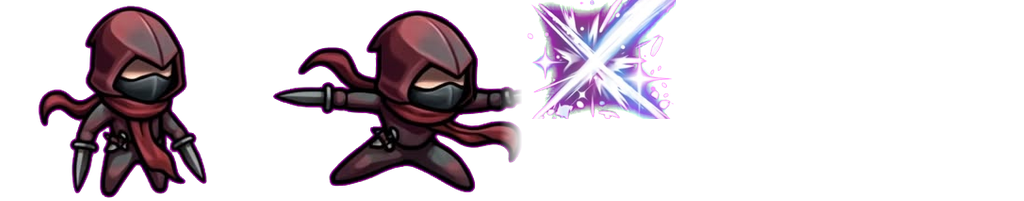
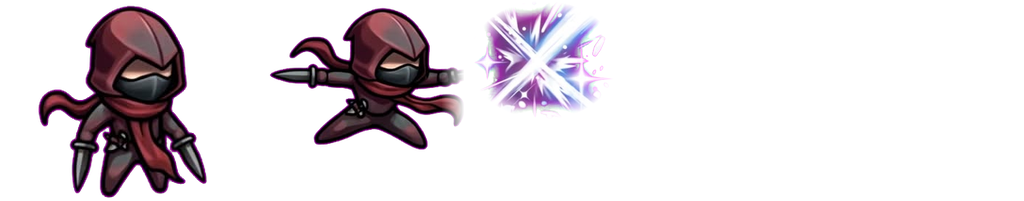
Efectos con sprites para asesino, arquero y orco; asesino con recorte y tamaño corregidos
- empaquetar_efectos.py: recorta hojas de efectos (cuadricula irregular, fondo rosa) y genera fx.js por heroe
- empaquetar_heroes.py: cuadricula real (grid), escala de la pose de ataque (atks) y destello radial
- sprites.js/index.html: efectos por secuencia (seq) y habilidades del asesino, arquero y orco con sprites
- hojas de efectos en assets/habilidades y efectos

Changed region(s): [[0.25, 0.0, 0.6875, 0.9552]]

diff --git a/index.html b/index.html
@@ -368,6 +368,8 @@ body.solo #soloItemsFold{margin:6px 0}
 <script src="assets/heroes/archer/pack.js"></script>
 <script src="assets/heroes/assassin/pack.js"></script>
 <script src="assets/heroes/assassin/fx.js"></script>
+<script src="assets/heroes/archer/fx.js"></script>
+<script src="assets/heroes/barbarian/fx.js"></script>
 <script src="assets/heroes/demon/pack.js"></script>
 <script src="assets/heroes/paladin/pack.js"></script>
 <script src="assets/heroes/druid/pack.js"></script>
@@ -882,6 +884,7 @@ function addDot(e,type,dps,dur,stack){
 function hitEnemy(p,e){
   SRC=p.src||p.type;
   {const bs=SPR.on?SPR.basicOf(p.src):null;if(bs&&bs.hit&&G.fx.length<300)G.fx.push({k:'spr',id:bs.hit,x:e.x,y:e.y,w:(bs.hw||36)*(p.crit?1.25:1),d:.3,t:.3,fi:0,fo:.6,g0:.5,g1:1.1})}
+  if(p.frost&&G.hero==='archer'&&arSpr())fxSeq('a_fri',4,{x:e.x,y:e.y,w:p.crit?84:64,d:.4,fi:0,fo:.3});
   if(p.arrow&&!p.skelArrow&&G.hero==='assassin'&&asSpr())sprFx({seq:asSeq('x_dagh',3),x:e.x,y:e.y-e.r*.3,w:p.crit?64:46,d:.3,fi:0,fo:.2});
   if(p.flask&&SPR.on&&G.fx.length<300)G.fx.push({k:'spr',id:'al_splash',x:e.x,y:e.y+4,w:40,d:.4,t:.4,fi:0,fo:.6,g0:.5,g1:1.1});
   if(p.src==='Rayo arcano de la torre'&&SPR.on&&G.fx.length<300)G.fx.push({k:'spr',id:'t_impact',x:e.x,y:e.y,w:30,d:.25,t:.25,fi:0,fo:.7,g0:.5,g1:1.2,add:true});
@@ -1856,7 +1859,7 @@ function shot(t,dmg,b,h){
     if(ha){const dd=Math.hypot(t.x-cx(),t.y-cy()),k=1+Math.min(.9,.4+.01*ha)*Math.min(1,dd/(heroShot()*.9));p.dmg*=k;p.exp*=k}
     if(hl){const fh=tf('d_head');if(Math.random()<Math.min(.4,.08+.01*hl+fh.pc)){const k=(1.6+.02*hl)*fh.dm;p.dmg*=k;p.exp*=k;p.crit=true;p.critT='🎯 ¡TIRO A LA CABEZA!';p.size*=1.5;p.stunC=1;p.stunT=(.8+.02*hl)*fh.dur;const tt=t,a=Math.atan2(t.y-cy(),t.x-cx());G.delayed.push({t:.08,fn:()=>{if(!tt.dead&&!tt.boss&&!(tt.root>0)){tt.x+=Math.cos(a)*50;tt.y+=Math.sin(a)*50}}})}}
   }
-  if(h==='archer'){const fl=clv('a_frost');if(fl){const ff=tf('a_frost');p.slow=Math.max(p.slow||0,Math.min(.65,.2+.008*fl+(ff.slow?ff.slow[0]:0)));p.stunC=Math.max(p.stunC||0,Math.min(.35,.04+.004*fl+ff.pc));p.stunT=Math.max(p.stunT||0,1+.02*fl);p.col='#9fe3ff'}}
+  if(h==='archer'){const fl=clv('a_frost');if(fl){const ff=tf('a_frost');p.slow=Math.max(p.slow||0,Math.min(.65,.2+.008*fl+(ff.slow?ff.slow[0]:0)));p.stunC=Math.max(p.stunC||0,Math.min(.35,.04+.004*fl+ff.pc));p.stunT=Math.max(p.stunT||0,1+.02*fl);p.col='#9fe3ff';p.frost=true}}
   if(h==='paladin'){
     if(G.ht.wrathOn>0){const wm=1.3*tf('pl_wrath').dm;p.dmg*=wm;p.exp*=wm}
     const cl=clv('pl_cleave'),fcl=tf('pl_cleave');if(cl){p.splash=(40+2*cl)*fcl.rad;if(fcl.dm!==1){p.dmg*=fcl.dm;p.exp*=fcl.dm}if(fcl.slow)p.slow=fcl.slow[0]}
@@ -1974,7 +1977,7 @@ function fireBasic(){
     if(!tg.length){G.basicCd=0;return}
     G.aim=Math.atan2(tg[0].y-cy(),tg[0].x-cx());G.punchAt=G.t;G.atkN=(G.atkN||0)+1;
     for(const t of tg)shot(t,dmg,b,h);
-    {const ml=SPR.on?SPR.meleeOf(h):null;if(ml&&G.fx.length<290)for(const t of tg)G.fx.push({k:'spr',id:ml.hit,x:t.x,y:t.y,w:ml.w,d:.3,t:.3,fi:0,fo:.6,g0:.5,g1:1.1})}
+    {const ml=SPR.on?SPR.meleeOf(h):null;if(ml&&G.fx.length<290)for(const t of tg){if(h==='assassin'&&asSpr())sprFx({seq:asSeq('x_stab',4),x:t.x,y:t.y-t.r*.3,w:64,d:.28,fi:0,fo:.2});else G.fx.push({k:'spr',id:ml.hit,x:t.x,y:t.y,w:ml.w,d:.3,t:.3,fi:0,fo:.6,g0:.5,g1:1.1})}}
     G.basicCd=rate/(S.atk*(G.haste>0?1.5:1));
     return;
   }
@@ -2173,7 +2176,7 @@ function updateHero(dt){
           if(!e.dead){e.stun=(.8+.03*l)*fsh.dur;if(dd>60){e.x-=dx/dd*Math.min(90,dd-50);e.y-=dy/dd*Math.min(90,dd-50)}}
         }
         T.callOn=(6+.15*l)*fsh.dur;G.haste=Math.max(G.haste,5+.15*l+(fsh.haste||0));
-        G.fx.push({k:'ring',x:x0,y:y0,r:R,t:.35,c:'#ff7a5a'});
+        if(bbSpr())fxSeq('b_shout',3,{x:x0,y:y0,w:Math.min(R*1.1,340),d:.6,fi:0,fo:.4,a:.85});else G.fx.push({k:'ring',x:x0,y:y0,r:R,t:.35,c:'#ff7a5a'});
         txt(x0,y0-70,'📢 ¡LLAMADA DE BATALLA!','#ff7a5a',18);
         done('b_shout',Math.max(10,20-.4*l));
       }
@@ -4402,9 +4405,10 @@ function heroTick3(h,dt,T,x0,y0,rdy,done,retry){
       if(!cs.length)retry('a_snipe');
       else{SRC='Disparo potente';const d=hdmg(l)*5,L=rg('a_snipe')+40;
         for(const t of cs){const a=Math.atan2(t.y-y0,t.x-x0);
-          lineHit(a,L,14,e=>{dealDamage(e,e===t?d:d*.6,'phys');ring(e.x,e.y,e.r+8,'#ffd24a',.25)});
-          G.fx.push({k:'bolt',pts:[[x0,y0-10],[x0+Math.cos(a)*L,y0-10+Math.sin(a)*L]],t:.35,c:'#ffe9a8'});
-          G.fx.push({k:'bolt',pts:[[x0,y0-10],[x0+Math.cos(a)*L,y0-10+Math.sin(a)*L]],t:.25,c:'#ffffff'});
+          lineHit(a,L,14,e=>{dealDamage(e,e===t?d:d*.6,'phys');if(arSpr())fxSeq('a_sni',4,{x:e.x,y:e.y,w:e===t?110:70,d:.4,fi:0,fo:.25,add:true});else ring(e.x,e.y,e.r+8,'#ffd24a',.25)});
+          if(arSpr()){fxSeq('a_snc',2,{x:x0+Math.cos(a)*22,y:y0-10+Math.sin(a)*22,w:46,d:.2,fi:0,fo:.2,add:true});fxSeq('a_snb',3,{x:x0,y:y0-10,to:[x0+Math.cos(a)*L,y0-10+Math.sin(a)*L],h:44,d:.4,fi:0,fo:.3,add:true})}
+          else{G.fx.push({k:'bolt',pts:[[x0,y0-10],[x0+Math.cos(a)*L,y0-10+Math.sin(a)*L]],t:.35,c:'#ffe9a8'});
+          G.fx.push({k:'bolt',pts:[[x0,y0-10],[x0+Math.cos(a)*L,y0-10+Math.sin(a)*L]],t:.25,c:'#ffffff'})}
           txt(t.x,t.y-t.r-14,'🎯','#ffd24a',20)}
         txt(x0,y0-70,'🎯 ¡Disparo potente!','#ffd24a',16);done('a_snipe',Math.max(7,14-.35*l))}
     }
@@ -4441,17 +4445,17 @@ function heroTick3(h,dt,T,x0,y0,rdy,done,retry){
       f=tf('b_exec');const cs=inR(rg('b_exec')).sort((a,b)=>a.hp/a.max-b.hp/b.max).slice(0,2+Math.floor(l/6)+f.cnt);
       if(!cs.length)retry('b_exec');
       else{SRC='Decapitador';const d=hdmg(l)*3.2;
-        for(const e of cs){const low=e.hp<e.max*.3&&!e.boss;dealDamage(e,low?e.hp*1.5+10:d,'phys');bolt(e,'#ff4040');ring(e.x,e.y,e.r+14,'#ff4040',.35);txt(e.x,e.y-e.r-14,low?'☠':'⚔','#ff4040',22)}
+        for(const e of cs){const low=e.hp<e.max*.3&&!e.boss;dealDamage(e,low?e.hp*1.5+10:d,'phys');if(bbSpr())fxSeq('b_exec',6,{x:e.x,y:e.y-e.r*.4,w:100,d:.5,fi:0,fo:.25});else{bolt(e,'#ff4040');ring(e.x,e.y,e.r+14,'#ff4040',.35)}txt(e.x,e.y-e.r-14,low?'☠':'⚔','#ff4040',22)}
         txt(x0,y0-70,'☠ ¡Decapitador!','#ff6a5a',16);done('b_exec',Math.max(7,13-.3*l))}
     }
     if((l=clv('b_berserk'))&&rdy('b_berserk')){
       f=tf('b_berserk');
       if(countNear(x0,y0,300)<4)retry('b_berserk');
-      else{T.bersOn=(8+.3*l)*f.dur;ring(x0,y0,130,'#ff3a2a',.6);ring(x0,y0,80,'#ffb0a0',.5);txt(x0,y0-90,'🤬 ¡BERSERKER!','#ff3a2a',22);done('b_berserk',Math.max(40,70-1.5*l))}
+      else{T.bersOn=(8+.3*l)*f.dur;if(!bbSpr()){ring(x0,y0,130,'#ff3a2a',.6);ring(x0,y0,80,'#ffb0a0',.5)}txt(x0,y0-90,'🤬 ¡BERSERKER!','#ff3a2a',22);done('b_berserk',Math.max(40,70-1.5*l))}
     }
     if(T.bersOn>0&&(l=clv('b_berserk'))){
       f=tf('b_berserk');G.hp=Math.min(S.maxHp,G.hp+S.maxHp*.02*dt*f.hm);
-      if(G.fx.length<300&&Math.random()<dt*16)G.fx.push({k:'p',x:x0+(Math.random()-.5)*34,y:y0+(Math.random()-.5)*34,vx:0,vy:-60,t:.5,c:'#ff3a2acc'})}
+      if(!bbSpr()&&G.fx.length<300&&Math.random()<dt*16)G.fx.push({k:'p',x:x0+(Math.random()-.5)*34,y:y0+(Math.random()-.5)*34,vx:0,vy:-60,t:.5,c:'#ff3a2acc'})}
   }
   if(h==='demon'){
     if((l=clv('z_void'))&&rdy('z_void')){
@@ -4714,11 +4718,11 @@ function drawClassFx(x0,y0){
     const R=(110+4*clv('z_immo'))*tf('z_immo').rad;
     ctx.beginPath();ctx.arc(x0,y0,R,0,6.3);ctx.fillStyle='rgba(125,255,106,'+(.07+.03*Math.sin(G.t*5))+')';ctx.fill();ctx.strokeStyle='rgba(125,255,106,.55)';ctx.lineWidth=1.5;ctx.stroke();ctx.lineWidth=1;
   }
-  if(h==='barbarian'&&(G.rage||0)>2){ctx.beginPath();ctx.arc(x0,y0,36+Math.min(12,G.rage),0,6.3);ctx.fillStyle='rgba(224,60,40,'+Math.min(.28,G.rage*.02)+')';ctx.fill()}
-  if(h==='barbarian'&&G.ht&&G.ht.bersOn>0){ctx.beginPath();ctx.arc(x0,y0,44+3*Math.sin(G.t*14),0,6.3);ctx.fillStyle='rgba(255,40,30,.22)';ctx.fill();ctx.strokeStyle='rgba(255,90,60,.7)';ctx.lineWidth=2;ctx.stroke();ctx.lineWidth=1}
+  if(h==='barbarian'&&(G.rage||0)>2&&!bbSpr()){ctx.beginPath();ctx.arc(x0,y0,36+Math.min(12,G.rage),0,6.3);ctx.fillStyle='rgba(224,60,40,'+Math.min(.28,G.rage*.02)+')';ctx.fill()}
+  if(h==='barbarian'&&G.ht&&G.ht.bersOn>0&&!bbSpr()){ctx.beginPath();ctx.arc(x0,y0,44+3*Math.sin(G.t*14),0,6.3);ctx.fillStyle='rgba(255,40,30,.22)';ctx.fill();ctx.strokeStyle='rgba(255,90,60,.7)';ctx.lineWidth=2;ctx.stroke();ctx.lineWidth=1}
   if(h==='demon'&&G.ht&&G.ht.bladeOn>0){const n=G.ht.bladeN||3;ctx.beginPath();ctx.arc(x0,y0,170,0,6.3);ctx.fillStyle='rgba(125,255,106,.07)';ctx.fill();
     for(let i=0;i<n;i++){const a=G.t*7+i*6.283/n,rr=120+30*Math.sin(G.t*3+i);drawGlaive({x:x0+Math.cos(a)*rr,y:y0+Math.sin(a)*rr,vx:Math.cos(a+1.57),vy:Math.sin(a+1.57)})}}
-  if(h==='barbarian'&&G.ht&&G.ht.whirlOn>0){
+  if(h==='barbarian'&&G.ht&&G.ht.whirlOn>0&&!bbSpr()){
     const R=(140+4*clv('b_whirl'))*tf('b_whirl').rad;
     ctx.beginPath();ctx.arc(x0,y0,R,0,6.3);ctx.fillStyle='rgba(217,80,58,.10)';ctx.fill();
     for(let i=0;i<4;i++){const a=G.t*9+i*1.571;drawAxe({x:x0+Math.cos(a)*R*.8,y:y0+Math.sin(a)*R*.8,rot:G.t*18+i,size:13})}
@@ -5361,6 +5365,12 @@ function draw(){
   drawAllies();drawCyclopes();
   // proyectiles
   for(const p of G.projs){
+    if(arSpr()&&G.hero==='archer'&&p.arrow&&!p.skelArrow){   /* flechas especiales del arquero con sprite */
+      const an=p.kind==='orb'?Math.atan2(p.vy,p.vx):(p.ang||0),fr=1+Math.floor(performance.now()/90)%2;
+      if(p.src==='Flecha perforante'){if(SPR.draw(ctx,'a_prc_'+fr,p.x,p.y,{w:p.crit?66:54,ax:.8,rot:an}))continue}
+      else if(p.frost){if(SPR.draw(ctx,'a_frp_'+fr,p.x,p.y,{w:p.crit?50:40,ax:.8,rot:an}))continue}
+      else if(G.ht&&G.ht.focusOn>0){if(SPR.draw(ctx,'a_str_'+fr,p.x,p.y,{w:p.crit?66:52,ax:.85,rot:an,add:true}))continue}
+    }
     if(SPR.on){const bs=SPR.basicOf(p.src);if(bs){const ang=(p.kind==='orb'||p.kind==='boom')?Math.atan2(p.vy,p.vx):(p.ang||0);if(SPR.draw(ctx,bs.proj,p.x,p.y,{w:bs.w*(p.crit?1.25:1),ax:bs.ax,rot:bs.spin?G.t*bs.spin:ang}))continue}}
     if(p.primalWave){drawPrimalRock(ctx,p.x,p.y,8,G.t*3);continue}
     if(p.flask){if(!(SPR.on&&SPR.draw(ctx,'al_proj',p.x,p.y,{w:24,rot:G.t*7})))drawAlchemistFlask(ctx,p.x,p.y,p.size||6,G.t*7);continue}
@@ -6821,7 +6831,7 @@ function tick5(h,dt,T,x0,y0,rdy,done,retry){
         G.punchAt=G.t;G.aim=Math.atan2(cs[0].y-y0,cs[0].x-x0);
         for(const e of cs){
           SRC='Hambre de sangre';const d=hdmg(l)*3;dealDamage(e,d,'phys');
-          E.push({k:'chain',e,t:0,life:.55,draw:drawChain});
+          if(bbSpr())fxSeq('b_claw',5,{x:e.x,y:e.y-e.r*.3,w:110,d:.55,fi:0,fo:.3});else E.push({k:'chain',e,t:0,life:.55,draw:drawChain});
           if(e.dead){G.hp=Math.min(S.maxHp,G.hp+S.maxHp*(.06+.002*l));G.haste=Math.max(G.haste,3+.1*l);ring5(e.x,e.y,e.r+16,'#ff3a3a',.4)}
           else addDot(e,'phys',d*.4,4,false);
         }
@@ -6835,7 +6845,7 @@ function tick5(h,dt,T,x0,y0,rdy,done,retry){
         if(a.chT<=0&&countNear(a.x,a.y,95)>0){
           a.chT=Math.max(3,6-.1*l)*f.cd;SRC='Jabalí embestidor';const d=hdmg(l)*(1.1+.015*l)*f.dm;
           for(const e of G.enemies){if(e.dead||Math.hypot(e.x-a.x,e.y-a.y)>95+e.r)continue;dealDamage(e,d,'phys');if(!e.dead&&!e.boss)e.stun=Math.max(e.stun||0,1)}
-          ring5(a.x,a.y,95,'#c9946a',.35)
+          if(bbSpr())fxSeq('b_dust',3,{x:a.x,y:a.y,w:110,ax:.5,ay:.6,d:.5,fi:0,fo:.4});else ring5(a.x,a.y,95,'#c9946a',.35)
         }
       }
       if(have<want){T.boarT=(T.boarT??1)-dt;
@@ -6844,7 +6854,7 @@ function tick5(h,dt,T,x0,y0,rdy,done,retry){
     if((l=clv('b_aspd'))&&G.allies.length){
       f=tf('b_aspd');const R=(260+5*l)*f.rad,kd=1+(.12+.01*l)*f.dm,ks=1+(.08+.006*l)*f.atk;
       for(const a of G.allies)if(Math.hypot(a.x-x0,a.y-y0)<=R){a.roarT=.3;a.roarK=kd;a.roarS=ks}
-      T.roarFx=(T.roarFx??0)-dt;if(T.roarFx<=0){T.roarFx=2.5;ring5(x0,y0,R*.7,'#ff9a3a',.5)}
+      T.roarFx=(T.roarFx??0)-dt;if(T.roarFx<=0){T.roarFx=2.5;if(bbSpr())fxSeq('b_roar',4,{x:x0,y:y0+6,w:Math.min(R*.9,300),d:.8,fi:0,fo:.4,a:.6});else ring5(x0,y0,R*.7,'#ff9a3a',.5)}
     }
   }
   if(h==='demon'&&(l=clv('z_step'))&&rdy('z_step')){
@@ -7256,7 +7266,9 @@ HR.assassin={
 const asFoes=(x,y,R)=>G.enemies.filter(e=>!e.dead&&Math.hypot(e.x-x,e.y-y)<=R+e.r);
 const asSpr=()=>SPR.on&&SPR.has('x_stab_1');   /* efectos del asesino con sprites (assets/heroes/assassin/fx.js); si no, se dibujan por código */
 const asSeq=(p,n)=>Array.from({length:n},(_,i)=>p+'_'+(i+1));
-const asRing=(x,y,r,t,col)=>{if(!asSpr())G.fx.push({k:'ring',x,y,r,t,c:col})};
+const arSpr=()=>SPR.on&&SPR.has('a_gust_1'),bbSpr=()=>SPR.on&&SPR.has('b_fire_1');   /* efectos del arquero y del orco con sprites */
+const fxSeq=(p,n,o)=>sprFx(Object.assign({seq:asSeq(p,n)},o)),fxLoop=(p,n,fps,o)=>sprFx(Object.assign({anim:asSeq(p,n),fps},o));
+const asRing=(x,y,r,t,col)=>{if(!(G.hero==='assassin'&&asSpr()))G.fx.push({k:'ring',x,y,r,t,c:col})};
 function asTp(x,y){
   const m=HEROES.assassin.melee.leash+100;let dx=x-(W/2+(G.hoff||0)),dy=y-H/2;const d=Math.hypot(dx,dy);
   if(d>m){dx*=m/d;dy*=m/d}
@@ -7402,6 +7414,21 @@ drawFx3=function(x0,y0){
   if(T.traps)for(const m of T.traps){const p=.5+.5*Math.sin(G.t*5+m.x);c.save();c.translate(m.x,m.y);c.fillStyle='rgba(0,0,0,.3)';c.beginPath();c.ellipse(0,3,9,3,0,0,6.3);c.fill();c.fillStyle='#3d5a2a';c.beginPath();c.ellipse(0,0,8,4,0,0,6.3);c.fill();c.strokeStyle='rgba(130,224,78,'+(.4+.4*p)+')';c.lineWidth=1.4;c.beginPath();c.ellipse(0,0,11,5.5,0,0,6.3);c.stroke();c.restore()}
 };
 
+const _d3Ab=drawFx3;
+drawFx3=function(x0,y0){
+  _d3Ab(x0,y0);
+  const tt=performance.now()/1000,c=ctx,T=G.ht;if(!T)return;
+  if(G.hero==='archer'&&arSpr()){   /* auras del arquero con sprites */
+    if(clv('a_aura'))SPR.draw(c,'a_aura_'+(1+Math.floor(tt*6)%4),cx(),cy()+16,{w:96,ax:.5,ay:.5,a:.5,add:true});
+    if(T.focusOn>0)SPR.draw(c,'a_foc_'+(1+Math.floor(tt*12)%4),cx(),cy()-6,{w:120,ax:.5,ay:.5,a:.5,add:true});
+    if(T.windOn>0)SPR.draw(c,'a_wind_'+(1+Math.floor(tt*12)%4),cx(),cy()-8,{w:96,ax:.5,ay:.5,a:.7});
+  }
+  if(G.hero==='barbarian'&&bbSpr()){   /* auras del orco con sprites */
+    if(T.whirlOn>0){const R=(140+4*clv('b_whirl'))*tf('b_whirl').rad;SPR.draw(c,'b_whirl_'+(1+Math.floor(tt*14)%6),cx(),cy(),{w:Math.min(R*1.3,300),ax:.5,ay:.5,a:.85})}
+    if(T.bersOn>0)SPR.draw(c,'b_fire_'+(1+Math.floor(tt*12)%6),cx(),cy()-4,{w:120,ax:.5,ay:.6,a:.5});
+    else if((G.rage||0)>2&&clv('b_rage'))SPR.draw(c,'b_rage_'+(1+Math.floor(tt*10)%4),cx(),cy()-4,{w:88,ax:.5,ay:.6,a:Math.min(.55,.15+G.rage*.04)});
+  }
+};
 function teamAura(){const l=clv('a_aura');return l&&G.heroes&&G.heroes.includes('archer')?(.05+.004*l)*tf('a_aura').dm:0}
 defTiers('a_frost','Flechas de escarcha',[['Escarcha densa','+15% de ralentización.',{slow:[.15,2.5]}],['Congelación','+8% de prob. de congelar.',{pc:.08}],['Frío intenso','+15% de ralentización y +8% de prob. de congelar.',{slow:[.3,2.5],pc:.08}],['Invierno eterno','Ralentiza un 45% y +15% de prob. de congelar.',{slow:[.45,2.5],pc:.15}]]);
 defTiers('a_shackle','Grillete',[['Cadenas largas','+30% de duración.',{dur:1.3}],['Hierro frío','+50% de daño.',{dm:1.5}],['Doble grillete','Ata una pareja más.',{cnt:1}],['Prisión','+40% de daño, -20% de enfriamiento y +30% de duración.',{dm:1.4,cd:.8,dur:1.3}]]);
@@ -7413,8 +7440,8 @@ const _t3El=heroTick3;
 heroTick3=function(h,dt,T,x0,y0,rdy,done,retry){_t3El(h,dt,T,x0,y0,rdy,done,retry);if(h==='archer')elfTick(dt,T,x0,y0,rdy,done,retry)};
 function elfTick(dt,T,x0,y0,rdy,done,retry){
   let l,f;
-  if(T.windOn>0){T.windOn-=dt;G.haste=Math.max(G.haste||0,.2);if(Math.random()<dt*14)G.fx.push({k:'p',x:cx()+(Math.random()-.5)*20,y:cy()+(Math.random()-.5)*20,t:.4,c:'#bff5c0'});if(T.windOn<=0)T.windOn=0}
-  if(T.focusOn>0){T.focusOn-=dt;if(Math.random()<dt*10)asRing(cx(),cy(),50+Math.random()*40,.3,'#ffe27a');if(T.focusOn<=0)T.focusOn=0}
+  if(T.windOn>0){T.windOn-=dt;G.haste=Math.max(G.haste||0,.2);if(!arSpr()&&Math.random()<dt*14)G.fx.push({k:'p',x:cx()+(Math.random()-.5)*20,y:cy()+(Math.random()-.5)*20,t:.4,c:'#bff5c0'});if(T.windOn<=0)T.windOn=0}
+  if(T.focusOn>0){T.focusOn-=dt;if(!arSpr()&&Math.random()<dt*10)asRing(cx(),cy(),50+Math.random()*40,.3,'#ffe27a');if(T.focusOn<=0)T.focusOn=0}
   if((l=clv('a_shackle'))&&rdy('a_shackle')){
     f=tf('a_shackle');const es=asFoes(x0,y0,rg('a_shackle')).sort((a,b)=>b.max-a.max),used=new Set();let did=0;
     for(const c of es){
@@ -7422,15 +7449,16 @@ function elfTick(dt,T,x0,y0,rdy,done,retry){
       const o=es.find(q=>q!==c&&!used.has(q)&&Math.hypot(q.x-c.x,q.y-c.y)<=280);if(!o)continue;
       used.add(c);used.add(o);did++;SRC='Grillete';
       const du=(2+.06*l)*f.dur,d=hdmg(l)*(2+.05*l)*f.dm;
-      for(const e of [c,o]){dealDamage(e,d,'phys');if(!e.dead){e.stun=Math.max(e.stun||0,e.boss?du*.4:du);asRing(e.x,e.y,e.r+10,.4,'#cfd4de')}}
-      G.fx.push({k:'bolt',pts:[[x0,y0-10],[c.x,c.y]],t:.2,c:'#e8ecf5'});G.fx.push({k:'bolt',pts:[[c.x,c.y],[o.x,o.y]],t:.5,c:'#aab4c8'});
+      for(const e of [c,o]){dealDamage(e,d,'phys');if(!e.dead){e.stun=Math.max(e.stun||0,e.boss?du*.4:du);if(arSpr())fxLoop('a_ring',4,8,{x:e.x,y:e.y+e.r*.5,w:e.r*3+20,ax:.5,ay:.5,d:e.boss?du*.4:du,fi:.1,fo:.25});else asRing(e.x,e.y,e.r+10,.4,'#cfd4de')}}
+      if(arSpr()){fxSeq('a_chain',3,{x:x0,y:y0-10,to:[c.x,c.y],h:26,d:.35,fi:0,fo:.3});fxSeq('a_chain',3,{x:c.x,y:c.y,to:[o.x,o.y],h:30,d:.6,fi:0,fo:.3})}
+      else{G.fx.push({k:'bolt',pts:[[x0,y0-10],[c.x,c.y]],t:.2,c:'#e8ecf5'});G.fx.push({k:'bolt',pts:[[c.x,c.y],[o.x,o.y]],t:.5,c:'#aab4c8'})}
     }
     if(!did)retry('a_shackle');else{txt(x0,y0-60,'⛓ ¡Grillete!','#dfe6f5',17);done('a_shackle',Math.max(7,13-.3*l))}
   }
   if((l=clv('a_windrun'))&&rdy('a_windrun')){
     f=tf('a_windrun');
     if(countNear(x0,y0,260)<3)retry('a_windrun');
-    else{T.windOn=(2.5+.08*l)*f.dur;G.heroInv=Math.max(G.heroInv||0,T.windOn);G.haste=Math.max(G.haste||0,T.windOn);asRing(x0,y0,80,.4,'#bff5c0');txt(x0,y0-60,'🍃 ¡Carrera del viento!','#bff5c0',17);done('a_windrun',Math.max(14,24-.5*l))}
+    else{T.windOn=(2.5+.08*l)*f.dur;G.heroInv=Math.max(G.heroInv||0,T.windOn);G.haste=Math.max(G.haste||0,T.windOn);if(!arSpr())asRing(x0,y0,80,.4,'#bff5c0');txt(x0,y0-60,'🍃 ¡Carrera del viento!','#bff5c0',17);done('a_windrun',Math.max(14,24-.5*l))}
   }
   if((l=clv('a_gust'))&&rdy('a_gust')){
     f=tf('a_gust');const R=(200+3*l)*f.rad,es=asFoes(x0,y0,R);
@@ -7445,13 +7473,13 @@ function elfTick(dt,T,x0,y0,rdy,done,retry){
         if(e.rng&&!e.boss){e.stun=Math.max(e.stun||0,sil);txt(e.x,e.y-e.r-12,'🤐','#fff',14)}
         else e.slow={a:.35,t:sil};
       }
-      asRing(x0,y0,R,.4,'#d6f5ff');asRing(x0,y0,R*.6,.3,'#ffffff');txt(x0,y0-60,'🌬 ¡Ráfaga!','#d6f5ff',17);done('a_gust',Math.max(8,15-.35*l));
+      if(arSpr()){for(let k=0;k<6;k++)fxSeq('a_gust',4,{x:x0,y:y0-6,w:Math.min(R*.6,190),ax:.02,ay:.5,rot:k*1.047+.3,d:.5,fi:0,fo:.3,a:.85})}else{asRing(x0,y0,R,.4,'#d6f5ff');asRing(x0,y0,R*.6,.3,'#ffffff')}txt(x0,y0-60,'🌬 ¡Ráfaga!','#d6f5ff',17);done('a_gust',Math.max(8,15-.35*l));
     }
   }
   if((l=clv('a_focus'))&&rdy('a_focus')){
     f=tf('a_focus');
     if(countNear(x0,y0,heroShot())<4)retry('a_focus');
-    else{T.focusOn=(7+.25*l)*f.dur;asRing(x0,y0,110,.5,'#ffe27a');txt(x0,y0-70,'🏹 ¡FUEGO CONCENTRADO!','#ffe27a',20);done('a_focus',Math.max(40,80-1.5*l))}
+    else{T.focusOn=(7+.25*l)*f.dur;if(!arSpr())asRing(x0,y0,110,.5,'#ffe27a');txt(x0,y0-70,'🏹 ¡FUEGO CONCENTRADO!','#ffe27a',20);done('a_focus',Math.max(40,80-1.5*l))}
   }
 }
 

diff --git a/assets/heroes/assassin/fx.js b/assets/heroes/assassin/fx.js
@@ -1,2 +1,2 @@
 /* Generado por tools/empaquetar_efectos.py. No editar a mano. */
-SPR.addPack("assassin_fx",{"game":{"img":"assets/heroes/assassin/assassin-fx.png","w":1024,"h":1271,"s":{"x_slash_1":[0,202,200,196],"x_slash_2":[203,202,200,196],"x_slash_3":[406,202,200,196],"x_slash_4":[609,202,200,196],"x_slash_5":[812,202,200,196],"x_slash_6":[0,401,200,196],"x_trail_1":[609,798,260,146],"x_trail_2":[0,977,260,146],"x_trail_3":[263,977,260,146],"x_trapa_1":[244,1204,90,53],"x_trapa_2":[337,1204,90,53],"x_trapa_3":[430,1204,90,53],"x_trapb_1":[203,401,200,195],"x_trapb_2":[406,401,200,195],"x_trapb_3":[609,401,200,195],"x_trapb_4":[812,401,200,195],"x_trapb_5":[0,600,200,195],"x_vanish_1":[0,798,200,176],"x_vanish_2":[203,798,200,176],"x_vanish_3":[406,798,200,176],"x_stab_1":[203,600,200,187],"x_stab_2":[406,600,200,187],"x_stab_3":[609,600,200,187],"x_stab_4":[812,600,200,187],"x_dag_1":[652,1126,63,64],"x_dag_2":[718,1126,63,64],"x_dag_3":[784,1126,63,64],"x_dag_4":[850,1126,63,64],"x_dagh_1":[526,977,110,110],"x_dagh_2":[639,977,110,110],"x_dagh_3":[752,977,110,110],"x_smoke_1":[0,0,200,199],"x_smoke_2":[203,0,200,199],"x_smoke_3":[406,0,200,199],"x_smoke_4":[609,0,200,199],"x_smoke_5":[812,0,200,199],"x_stealth_1":[0,1126,160,75],"x_stealth_2":[163,1126,160,75],"x_stealth_3":[326,1126,160,75],"x_stealth_4":[489,1126,160,75],"x_mark_1":[916,1126,58,64],"x_mark_2":[0,1204,58,64],"x_mark_3":[61,1204,58,64],"x_mark_4":[122,1204,58,64],"x_mark_5":[183,1204,58,64]}}});
+SPR.addPack("assassin_fx",{"game":{"img":"assets/heroes/assassin/assassin-fx.png","w":1024,"h":1265,"s":{"x_slash_1":[0,202,200,196],"x_slash_2":[203,202,200,196],"x_slash_3":[406,202,200,196],"x_slash_4":[609,202,200,196],"x_slash_5":[812,202,200,196],"x_slash_6":[0,401,200,196],"x_trail_1":[609,798,260,144],"x_trail_2":[0,975,260,144],"x_trail_3":[263,975,260,144],"x_trapa_1":[240,1198,90,52],"x_trapa_2":[333,1198,90,52],"x_trapa_3":[426,1198,90,52],"x_trapb_1":[203,401,200,195],"x_trapb_2":[406,401,200,195],"x_trapb_3":[609,401,200,195],"x_trapb_4":[812,401,200,195],"x_trapb_5":[0,600,200,195],"x_vanish_1":[0,798,200,174],"x_vanish_2":[203,798,200,174],"x_vanish_3":[406,798,200,174],"x_stab_1":[203,600,200,187],"x_stab_2":[406,600,200,187],"x_stab_3":[609,600,200,187],"x_stab_4":[812,600,200,187],"x_dag_1":[652,1122,63,64],"x_dag_2":[718,1122,63,64],"x_dag_3":[784,1122,63,64],"x_dag_4":[850,1122,63,64],"x_dagh_1":[526,975,110,110],"x_dagh_2":[639,975,110,110],"x_dagh_3":[752,975,110,110],"x_smoke_1":[0,0,200,199],"x_smoke_2":[203,0,200,199],"x_smoke_3":[406,0,200,199],"x_smoke_4":[609,0,200,199],"x_smoke_5":[812,0,200,199],"x_stealth_1":[0,1122,160,73],"x_stealth_2":[163,1122,160,73],"x_stealth_3":[326,1122,160,73],"x_stealth_4":[489,1122,160,73],"x_mark_1":[916,1122,57,64],"x_mark_2":[0,1198,57,64],"x_mark_3":[60,1198,57,64],"x_mark_4":[120,1198,57,64],"x_mark_5":[180,1198,57,64]}}});

diff --git a/assets/heroes/assassin/pack.js b/assets/heroes/assassin/pack.js
@@ -1,3 +1,3 @@
 /* Generado por tools/empaquetar_heroes.py. No editar a mano. */
-SPR.addPack("assassin",{"game":{"img":"assets/heroes/assassin/assassin-juego.png","w":1024,"h":201,"s":{"assassin_idle":[0,0,256,198],"assassin_atk":[259,0,264,198],"assassin_hit":[526,0,150,119]}},"ui":{"img":"assets/heroes/assassin/assassin-ui.png","w":480,"h":396,"s":{"x_poison":[0,0,96,96],"x_crit":[99,0,96,96],"x_dodge":[198,0,96,96],"x_blink":[297,0,96,96],"x_smoke":[0,99,96,96],"x_stealth":[99,99,96,96],"x_mark":[198,99,96,96],"x_daggers":[297,99,96,96],"x_clone":[0,198,96,96],"x_trap":[99,198,96,96],"x_exec":[198,198,96,96],"x_dance":[297,198,96,96],"assassin_icon":[0,297,96,96],"assassin_basic_icon":[99,297,96,96],"assassin_portrait":[198,297,96,96]}}});
+SPR.addPack("assassin",{"game":{"img":"assets/heroes/assassin/assassin-juego.png","w":1024,"h":201,"s":{"assassin_idle":[0,0,256,198],"assassin_atk":[259,0,206,154],"assassin_hit":[468,0,150,119]}},"ui":{"img":"assets/heroes/assassin/assassin-ui.png","w":480,"h":396,"s":{"x_poison":[0,0,96,96],"x_crit":[99,0,96,96],"x_dodge":[198,0,96,96],"x_blink":[297,0,96,96],"x_smoke":[0,99,96,96],"x_stealth":[99,99,96,96],"x_mark":[198,99,96,96],"x_daggers":[297,99,96,96],"x_clone":[0,198,96,96],"x_trap":[99,198,96,96],"x_exec":[198,198,96,96],"x_dance":[297,198,96,96],"assassin_icon":[0,297,96,96],"assassin_basic_icon":[99,297,96,96],"assassin_portrait":[198,297,96,96]}}});
 SPR.addMeta("assassin",{"idle":"assassin_idle","atk":"assassin_atk","ax":0.48,"ay":0.998,"H":58,"atkax":0.465,"melee":{"hit":"assassin_hit","w":40}});

diff --git a/assets/heroes/archer/fx.js b/assets/heroes/archer/fx.js
@@ -1,0 +1,2 @@
+/* Generado por tools/empaquetar_efectos.py. No editar a mano. */
+SPR.addPack("archer_fx",{"game":{"img":"assets/heroes/archer/archer-fx.png","w":1024,"h":1637,"s":{"a_snc_1":[306,1532,90,54],"a_snc_2":[399,1532,90,54],"a_snb_1":[346,1073,302,148],"a_snb_2":[651,1073,302,148],"a_snb_3":[0,1242,302,148],"a_sni_1":[0,0,227,230],"a_sni_2":[230,0,227,230],"a_sni_3":[460,0,227,230],"a_sni_4":[690,0,227,230],"a_chain_1":[305,1242,302,136],"a_chain_2":[610,1242,302,136],"a_chain_3":[0,1393,302,136],"a_ring_1":[571,1393,150,102],"a_ring_2":[724,1393,150,102],"a_ring_3":[0,1532,150,102],"a_ring_4":[153,1532,150,102],"a_frp_1":[698,1532,80,45],"a_frp_2":[781,1532,80,45],"a_fri_1":[516,900,170,166],"a_fri_2":[689,900,170,166],"a_fri_3":[0,1073,170,166],"a_fri_4":[173,1073,170,166],"a_prc_1":[492,1532,100,53],"a_prc_2":[595,1532,100,53],"a_foc_1":[0,697,199,200],"a_foc_2":[202,697,199,200],"a_foc_3":[404,697,199,200],"a_foc_4":[606,697,199,200],"a_str_1":[305,1393,130,130],"a_str_2":[438,1393,130,130],"a_wind_1":[808,697,169,170],"a_wind_2":[0,900,169,170],"a_wind_3":[172,900,169,170],"a_wind_4":[344,900,169,170],"a_gust_1":[0,233,228,230],"a_gust_2":[231,233,228,230],"a_gust_3":[462,233,228,230],"a_gust_4":[693,233,228,230],"a_aura_1":[0,466,230,228],"a_aura_2":[233,466,230,228],"a_aura_3":[466,466,230,228],"a_aura_4":[699,466,230,228]}}});

diff --git a/assets/heroes/barbarian/fx.js b/assets/heroes/barbarian/fx.js
@@ -1,0 +1,2 @@
+/* Generado por tools/empaquetar_efectos.py. No editar a mano. */
+SPR.addPack("barbarian_fx",{"game":{"img":"assets/heroes/barbarian/barbarian-fx.png","w":1024,"h":1713,"s":{"b_fire_1":[699,233,200,200],"b_fire_2":[0,463,200,200],"b_fire_3":[203,463,200,200],"b_fire_4":[406,463,200,200],"b_fire_5":[609,463,200,200],"b_fire_6":[812,463,200,200],"b_whirl_1":[0,666,200,200],"b_whirl_2":[203,666,200,200],"b_whirl_3":[406,666,200,200],"b_whirl_4":[609,666,200,200],"b_whirl_5":[812,666,200,200],"b_whirl_6":[0,869,200,200],"b_axe_1":[915,1477,56,55],"b_axe_2":[0,1655,56,55],"b_axe_3":[59,1655,56,55],"b_roar_1":[690,0,230,227],"b_roar_2":[0,233,230,227],"b_roar_3":[233,233,230,227],"b_roar_4":[466,233,230,227],"b_rage_1":[223,1477,170,169],"b_rage_2":[396,1477,170,169],"b_rage_3":[569,1477,170,169],"b_rage_4":[742,1477,170,169],"b_exec_1":[200,1072,200,199],"b_exec_2":[403,1072,200,199],"b_exec_3":[606,1072,200,199],"b_exec_4":[809,1072,200,199],"b_exec_5":[0,1275,200,199],"b_exec_6":[203,1275,200,199],"b_shout_1":[0,0,227,230],"b_shout_2":[230,0,227,230],"b_shout_3":[460,0,227,230],"b_claw_1":[203,869,197,200],"b_claw_2":[403,869,197,200],"b_claw_3":[603,869,197,200],"b_claw_4":[803,869,197,200],"b_claw_5":[0,1072,197,200],"b_dust_1":[406,1275,220,175],"b_dust_2":[629,1275,220,175],"b_dust_3":[0,1477,220,175]}}});

diff --git a/tools/empaquetar_efectos.py b/tools/empaquetar_efectos.py
@@ -9,10 +9,19 @@ import numpy as np
 from empaquetar_torre_lib import fondo,quitar_fondo,empaquetar
 D0,D1=62,135
 # héroe -> [(hoja, columnas, filas, [(prefijo, primera celda 1-based, nº de fotogramas, lado máximo), ...]), ...]
+D='habilidades y efectos/'
 H={
  'assassin':[
-  ('acesino_efectos1.jpg',6,4,[('x_slash',1,6,200),('x_trail',7,3,260),('x_trapa',10,3,90),('x_trapb',13,5,200),('x_vanish',18,3,200),('x_stab',21,4,200)]),
-  ('acesino_efectos2.jpg',6,4,[('x_dag',1,4,64),('x_dagh',5,3,110),('x_smoke',8,5,200),('x_stealth',13,4,160),('x_mark',17,5,64)]),
+  (D+'acesino_efectos1.jpg',6,4,[('x_slash',1,6,200),('x_trail',7,3,260),('x_trapa',10,3,90),('x_trapb',13,5,200),('x_vanish',18,3,200),('x_stab',21,4,200)]),
+  (D+'acesino_efectos2.jpg',6,4,[('x_dag',1,4,64),('x_dagh',5,3,110),('x_smoke',8,5,200),('x_stealth',13,4,160),('x_mark',17,5,64)]),
+ ],
+ 'archer':[
+  (D+'archer_efectos1.jpg',6,4,[('a_snc',1,2,90),('a_snb',3,3,320),('a_sni',6,4,230),('a_chain',10,3,320),('a_ring',13,4,150),('a_frp',17,2,80),('a_fri',19,4,170),('a_prc',23,2,100)]),
+  (D+'archer_efectos2.jpg',6,4,[('a_foc',1,4,200),('a_str',5,2,130),('a_wind',7,4,170),('a_gust',11,4,230),('a_aura',15,4,230)]),
+ ],
+ 'barbarian':[
+  (D+'guerrero_efectos1.jpg',6,4,[('b_fire',1,6,200),('b_whirl',7,6,200),('b_axe',13,3,56),('b_roar',16,4,230),('b_rage',20,4,170)]),
+  (D+'guerrero_efectos2.jpg',6,4,[('b_exec',1,6,200),('b_shout',7,3,230),('b_claw',[10,11,12,17,18],5,200),('b_dust',13,3,220)]),
  ],
 }
 def centros(v):
@@ -37,6 +46,12 @@ def fondo_robusto(rgb):
     return np.median(rgb[m],axis=0) if m.sum()>300 else fondo(rgb)
 def clave(rgb):
     a=np.array(quitar_fondo(rgb,fondo_robusto(rgb),D0,D1))
+    # el fondo de algunas hojas no es magenta puro: tiene esquinas rosa palido y un borde rosa oscuro (marco redondeado de cada celda)
+    f=rgb.astype(float);R,G,B=f[...,0],f[...,1],f[...,2]
+    pal=np.clip((G-90)/80,0,1)+np.where(np.minimum(R,B)>=185,0,1)            # rosa/lila palido -> transparente (el blanco real tiene G alto y se conserva)
+    rose=np.where((R>180)&(G<70)&(B>110)&(B<215),0,1)                         # rosa oscuro del marco (la sangre y el fuego tienen B bajo)
+    k=np.clip(pal,0,1)*rose
+    a[...,3]=(a[...,3]*k).astype(np.uint8)
     linea=(rgb[...,0]>40)&(rgb[...,0]<150)&(rgb[...,1]<60)&(rgb[...,2]>60)&(rgb[...,2]<180)   # restos de la cuadrícula en el borde
     borde=np.zeros(linea.shape,bool);borde[:14,:]=True;borde[-14:,:]=True;borde[:,:14]=True;borde[:,-14:]=True
     a[linea&borde,3]=0
@@ -52,8 +67,9 @@ for hid,hojas in H.items():
         im=np.array(Image.open('assets/'+f).convert('RGB')).astype(int);xs,ys=celdas_de(im,cols,rows)
         for pref,c0,n,maxl in grupos:
             fr=[]
-            for i in range(n):
-                r,c=divmod(c0-1+i,cols);fr.append(clave(im[ys[r][0]:ys[r][1],xs[c][0]:xs[c][1]]))
+            lista=c0 if isinstance(c0,list) else [c0+i for i in range(n)]
+            for cel in lista:
+                r,c=divmod(cel-1,cols);fr.append(clave(im[ys[r][0]:ys[r][1],xs[c][0]:xs[c][1]]))
             bb=[bbox(s) for s in fr];u=(min(b[0] for b in bb),min(b[1] for b in bb),max(b[2] for b in bb),max(b[3] for b in bb))
             k=min(1,maxl/max(u[2]-u[0],u[3]-u[1]))
             for i,s in enumerate(fr):

diff --git a/tools/empaquetar_heroes.py b/tools/empaquetar_heroes.py
@@ -11,7 +11,7 @@ D0,D1=62,135
 # basic: src (nombre del ataque basico en el juego), w, ax, spin ; melee: efecto al golpear cuerpo a cuerpo
 H={
  'archer':dict(f='archer1.jpg',cols=7,rows=4,idle=1,atk=2,proj=3,hit=4,basic=dict(src='Flecha',w=38,ax=.82),hw=34,icons='archer2.jpg',kit='a_crit a_aspd a_multi a_pierce a_frost a_shackle a_snipe a_windrun a_gust a_aura a_hawk a_focus'),
- 'assassin':dict(f='acesino1.jpg',grid=True,cols=7,rows=6,idle=1,atk=2,hit=5,melee=True,hw=40,H=58,icons='acesino2.jpg',kit='x_poison x_crit x_dodge x_blink x_smoke x_stealth x_mark x_daggers x_clone x_trap x_exec x_dance'),
+ 'assassin':dict(f='acesino1.jpg',grid=True,cols=7,rows=6,idle=1,atk=2,hit=5,melee=True,hw=40,H=58,atks=.78,radial=True,icons='acesino2.jpg',kit='x_poison x_crit x_dodge x_blink x_smoke x_stealth x_mark x_daggers x_clone x_trap x_exec x_dance'),
  'demon':dict(f='demonhunter1.jpg',cols=7,rows=4,idle=1,atk=2,proj=13,hit=14,basic=dict(src='Guadañas viles',w=34,ax=.5,spin=14),hw=38),
  'paladin':dict(f='dragonkings1.jpg',cols=7,rows=4,idle=1,atk=2,melee=True),
  'druid':dict(f='druida1.jpg',cols=7,rows=4,idle=1,atk=2,proj=4,hit=5,basic=dict(src='Cólera',w=44,ax=.8),hw=38),
@@ -91,6 +91,7 @@ for hid,cfg in H.items():
     atkax=None
     if abs(atk.width-idle.width)<=2 and abs(atk.height-idle.height)<=2:atk=atk.resize(idle.size,Image.LANCZOS)
     else:atkax=round(((box[0]+box[2])/2)/atk.width,3)   # ataque de varias celdas: el cuerpo queda en la primera
+    if cfg.get('atks'):atk=atk.resize((round(atk.width*cfg['atks']),round(atk.height*cfg['atks'])),Image.LANCZOS)   # la pose de ataque viene dibujada mas grande que la de reposo
     a=np.array(atk);fr_=cfg.get('fade_r',24);fl_=cfg.get('fade_l',0)
     a[:,-fr_:,3]=(a[:,-fr_:,3]*np.linspace(1,0,fr_)[None,:]).astype(np.uint8)
     if fl_:a[:,:fl_,3]=(a[:,:fl_,3]*np.linspace(0,1,fl_)[None,:]).astype(np.uint8)
